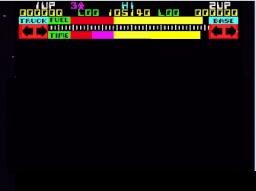
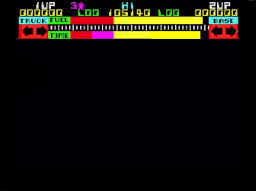
bouncing aliens

diff --git a/jetman/jetman.cpp b/jetman/jetman.cpp
@@ -18,14 +18,14 @@ Vec2 screenpos;
 
 uint8_t terrain[1000];
 
-#define NUMALIENS 4
-struct sprite_t { Rect sprite; Vec2 pos; Vec2 speed; Pen color; int attached; int driving; int dir;};
-sprite_t alien[NUMALIENS],truck,trailer,fuel,player,missile,alienbase,basecannon;
+#define NUMALIENS 20
+struct sprite_t { Rect sprite; Vec2 pos; Vec2 speed; Pen color; int attached; int driving; int dir; int explode;};
+sprite_t alien[NUMALIENS], truck, trailer, missile, alienbase, basecannon,basecannon2, bomb, fuelpod, bricks, player;
 
 //sprite costumes
 Rect costume;
 Rect explode[] = { Rect(8,0,4,3), Rect(8,3,4,2), Rect(8,5,4,2) };
-Rect meteor [] = { Rect(0,6,2,2), Rect(2,6,2,2) };
+Rect meteor [] = { Rect(0,13,3,2), Rect(0,13,3,2) };
 Rect jetmanwalk [] = { Rect(0,0,2,3), Rect(2,0,2,3), Rect(4,0,2,3), Rect(6,0,2,3) };
 Rect jetmanfly []  = { Rect(0,3,2,3), Rect(2,3,2,3) };
 
@@ -58,21 +58,6 @@ int collide (Point a, Point b) {
    return 0;
 }
 
-void playerhitplatform (Vec3 platform){
-  if ((player.pos.x > platform.x) && (player.pos.x < platform.z)) {
-    int ypos = platform.y;
-
-    // if hitting underside, bounce down
-    if ((player.speed.y < 0) && (abs(player.pos.y - ypos)) < 3) { 
-	player.pos.y = ypos + 3; player.speed.y = 6;}
-
-    // if on top, land
-    ypos -= 25;
-    if ((player.speed.y > 0) && (abs(player.pos.y - ypos)) < 5) { 
-	player.pos.y = ypos - 1; player.speed.y = 0;}
-  }
-}
-
 int hitplatform(Point pos){
   for (Vec3 plat : platforms) 
   	if ((pos.x > plat.x) && (pos.x < plat.z) && abs(plat.y - pos.y) < 20) return 1;
@@ -89,21 +74,22 @@ Vec3 laser;
 
 void newalien (int n) {
   alien[n].color = colors[1 + RND(6)] ;
-  alien[n].pos = Vec2(screen.bounds.w, RND(screen.bounds.h));
-  alien[n].speed = Vec2(-1, 0.1f + (RND(5) / 5.0f ));
+  alien[n].pos = Vec2(RND(1000),50 + RND(100));
+  alien[n].speed = Vec2(-1, 1 );
 
   if ( RND(2) ) { // opposite side of screen
   	alien[n].pos.x = 0;
   	alien[n].speed.x *= -1;
   	}
+  alien[n].explode = 0;
 }
 
 void colorsprites(Pen color) { screen.sprites->palette[1] = color; } 
 
 void splat ( int n ) {
   channels[2].trigger_attack();
-  screen.sprite(explode[0],alien[n].pos);
-  newalien(n);
+  //explode for a few frames
+  if (alien[n].explode == 0) alien[n].explode = 10;
 }
 
 void beep () { channels[6].trigger_attack();}
@@ -135,32 +121,32 @@ void init() {
   //make black transparent
   screen.sprites->palette[0] = Pen(0,0,0,0); 
 
-  //fuel.sprite = Rect(0,8,3,2);
-  fuel.sprite = Rect(0,10,2,2);
+  fuelpod.sprite = Rect(0,8,2,2);
+  bricks.sprite = Rect(14,9,2,2);
+  bomb.sprite = Rect(0,10,2,2);
   truck.sprite = Rect(7,10,6,3);
   trailer.sprite = Rect(7,13,6,3);
   basecannon.sprite = Rect(2,8,2,3);
+  basecannon2.sprite = Rect(2,8,2,3);
   alienbase.sprite = Rect(12,3,4,6);
 
   player.pos = Vec2(screen.bounds.w / 2, screen.bounds.h - 50);
-  fuel.pos = Vec2(RND(screen.bounds.w),80);
+  fuelpod.pos = Vec2(100,ground);
+  bricks.pos = Vec2(200,ground);
+  bomb.pos = Vec2(300,ground);
   truck.pos = Vec2(50,ground);
   trailer.pos = Vec2(500,ground);
   missile.pos = Vec2(1500,100);
   basecannon.pos = Vec2(600,ground);
+  basecannon2.pos = Vec2(750,ground);
   alienbase.pos = Vec2(670,ground - 25);
 
   missiletime = flytime = 170;
   for (int n=0;n<NUMALIENS;n++) { newalien(n); }
-  //scale to different screen sizes
-  for (Vec3 &plat : platforms) {
-	  plat.x = plat.x  / (320.0f / screen.bounds.w);
-	  plat.y = plat.y  / (240.0f / screen.bounds.h);
-	  plat.z = plat.z  / (320.0f / screen.bounds.w);
-  }
+
   // make landscape terrain
   for (int x=0;x<1000;x++) 
-	terrain[x] = 15 + rand() % 4;
+	terrain[x] = 15 + RND(4);
 }
 
 void render(uint32_t time) {
@@ -179,10 +165,6 @@ void render(uint32_t time) {
   screen.pen = black;
   screen.rectangle(Rect(90 + flytime,20, 170-flytime, 11));
   screen.rectangle(Rect(90 + missiletime,38, 170-missiletime, 11));
-  if (missiletime < 0)  {
-	  screen.pen = colors[RND(8)];
-  	  screen.rectangle(Rect(90 + missiletime,38, 170-missiletime, 11));
-  }
 
   // direction indicator to truck location
   screen.pen = yellow;
@@ -194,18 +176,13 @@ void render(uint32_t time) {
   if (alienbase.pos.x < screenpos.x) screen.circle(Vec2(270,38),3);
   if (alienbase.pos.x > screenpos.x) screen.circle(Vec2(295,38),3);
 
-  // truck and trailer
-  screen.sprite(truck.sprite,truck.pos - screenpos,truck.dir);
-  screen.sprite(trailer.sprite,trailer.pos - screenpos,trailer.dir);
-
-  // alien base
-  screen.sprite(alienbase.sprite,alienbase.pos - screenpos);
-  screen.sprite(basecannon.sprite,basecannon.pos - screenpos);
-  screen.sprite(basecannon.sprite,basecannon.pos + Vec2(150,0) - screenpos);
-
-  // missile
-  screen.pen = colors[RND(8)];
-  screen.rectangle(Rect(missile.pos.x - screenpos.x,missile.pos.y,50,10));
+  // walk on ground
+  if (!truck.driving && player.pos.y == ground) {
+  	  int px =  (int) screenpos.x  % 3;
+	  costume = jetmanwalk [px];
+	  player.speed.x *= 0.6;
+  }
+  else costume = jetmanfly [RND(2)]; 
 
   // draw player 
   colorsprites(white);
@@ -214,16 +191,17 @@ void render(uint32_t time) {
   // lasers
   if (fire == 1 && !truck.driving) laser(); 
 
-  // Fuel pod
-    colorsprites(magenta);
-    screen.sprite(fuel.sprite,fuel.pos - screenpos);
-
+  sprite_t *objects[] = { &fuelpod, &bomb, &bricks, &truck, &trailer, &alienbase, &basecannon, &basecannon2, &missile };
+  for ( auto obj : objects) 
+  	screen.sprite(obj->sprite,obj->pos - screenpos, obj->dir);
+  
   // Aliens
   for (int n=0; n < NUMALIENS; n++) {
-  	costume = meteor[RND(2)];
-  	colorsprites(alien[n].color);
+  	//colorsprites(alien[n].color);
 	int dir = alien[n].speed.x < 0;
-  	screen.sprite(costume,alien[n].pos,dir);
+	costume = meteor[RND(2)];
+	if (alien[n].explode > 0) costume = explode[RND(3)];
+  	screen.sprite(costume,alien[n].pos - screenpos,dir);
   }
 }
 
@@ -256,25 +234,18 @@ void update(uint32_t time) {
   read_buttons();
   if (missiletime > 0) missiletime -= 0.05f;
 
-  // flying uses energy, recovers on ground 
-  if (player.pos.y < ground) flytime -= 0.01f;
-  if (player.pos.y > ground) flytime += 0.1f;
+  // flying uses energy, recovers in truck
+  if (player.pos.y < ground) flytime -= 0.2f;
   if (flytime < 0) player.speed.y = 8;
 
-  for (Vec3 plat : platforms) 
-	playerhitplatform(plat);
-
-  if (player.pos.y > ground + 10) player.pos.y = ground; 
+  if (player.pos.y < 50) player.pos.y = 50;
+  if (player.pos.y > ground ) player.pos.y = ground; 
   
-  // walk on ground
-  int px = (int) screenpos.x;
-  if (player.speed.y  == 0 ) costume = jetmanwalk [( px * 4) % 3]; 
-  else costume = jetmanfly [RND(2)]; 
-
   // enter / exit truck
   if (collide(Vec2(truck.pos.x - screenpos.x,ground),player.pos)) {
 	  truck.driving = 1;
 	  player.pos.y = ground;
+	  flytime = 170;
   }
   // jump to exit truck
   if (truck.driving) {
@@ -283,6 +254,7 @@ void update(uint32_t time) {
   	  if (player.pos.y < ground - 10) 
 	  	truck.driving = trailer.attached = 0;
   }
+  //attach trailer just by driving truck on to it
   if (!trailer.attached && truck.driving && collide(player.pos, Vec2(trailer.pos.x - screenpos.x - 50,ground))) 
 	  trailer.attached = 1;
   if (trailer.attached) {
@@ -294,15 +266,17 @@ void update(uint32_t time) {
   for (int n=0; n < NUMALIENS; n++) {
   	alien[n].pos += alien[n].speed;
 	Point pos = alien[n].pos;
-  	if (pos.x < 0 || pos.x > screen.bounds.w ) newalien(n);
-  	if (hitplatform(pos)) { splat(n); }
+	if (pos.x > 1000 || pos.x < -1000) alien[n].speed.x *= -1;
+	if (pos.y < 45 || pos.y > ground) alien[n].speed.y *= -1;
   	if (fire && hitlaser(pos)) { splat(n); }
 	//immune from aliens when driving truck
 	if (truck.driving) continue;
   	if (collide (pos, player.pos)) {
 		splat(n); 
-		playerdied = 1;
+		//playerdied = 1;
 		}
+	if (alien[n].explode > 0) alien[n].explode--;
+	if (alien[n].explode == 1) newalien(n);
   }
   if (playerdied) { 
 	  delay = 100;
@@ -320,12 +294,20 @@ void update(uint32_t time) {
    }
 
    // drop a bomb on missle to stop it
-   if (!fuel.attached && collide(missile.pos + Vec2(30,0),fuel.pos)) missile.pos.x = 0;
+   if (!bomb.attached && collide(missile.pos + Vec2(30,0),bomb.pos)) missile.pos.x = 0;
 
-   //fuelpods
-    if (!hitplatform(fuel.pos)) fuel.pos.y++;
-    if (collide(Vec2(fuel.pos.x - screenpos.x ,fuel.pos.y),player.pos) && !truck.driving) fuel.attached = 1; 
-    if (fuel.attached) fuel.pos = player.pos + Vec2(screenpos.x,20);  
-    if (pressed(Button::B)) fuel.attached = 0; 
-    //if (playerdied) fuel.pos = truck.pos + Vec2(3,-10);
+   // pickup & drop objects
+    sprite_t *objects[] = { &fuelpod, &bomb, &bricks };
+    for ( auto obj : objects) {
+    	if (obj->pos.y < ground + 10) obj->pos.y++; // gravity
+    	if (player.pos.y != ground && !truck.driving) 
+		if (collide(Vec2(obj->pos.x - screenpos.x ,obj->pos.y),player.pos)) 
+			obj->attached = 1; 
+    	if (obj->attached) obj->pos = player.pos + Vec2(screenpos.x,20);  
+    	if (obj->attached && player.pos.y == ground) {
+		obj->attached = 0;
+		obj->pos.y -= 10;
+	}
+    	if (pressed(Button::B)) obj->attached = 0; 
+	}
 }
